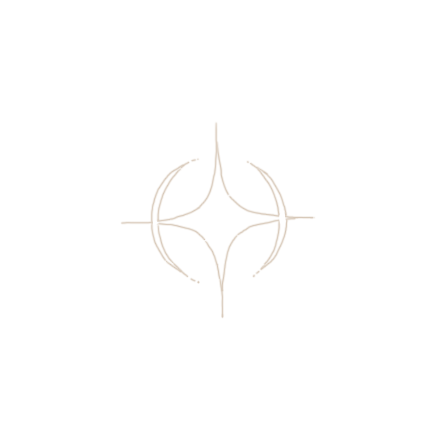
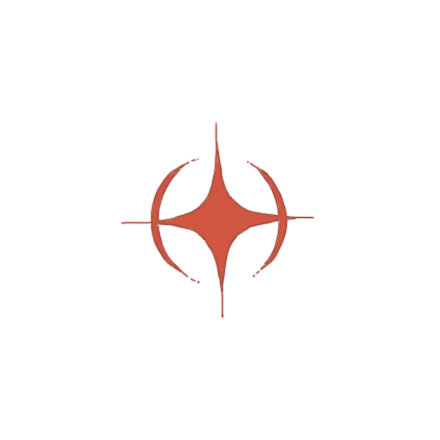
Изменен цвет взрыва

diff --git a/src/styles/style.css b/src/styles/style.css
@@ -317,20 +317,20 @@ body {
     top: -200px;
     left: -200px;
     z-index: -1000;
-    background-image: url("../images/interface/game/boom1/1.png"),
-        url("../images/interface/game/boom1/2.png"),
-        url("../images/interface/game/boom1/3.png"),
-        url("../images/interface/game/boom1/4.png"),
-        url("../images/interface/game/boom1/5.png"),
-        url("../images/interface/game/boom1/6.png"),
-        url("../images/interface/game/boom1/7.png"),
-        url("../images/interface/game/boom1/8.png"),
-        url("../images/interface/game/boom1/9.png"),
-        url("../images/interface/game/boom1/10.png"),
-        url("../images/interface/game/boom1/11.png"),
-        url("../images/interface/game/boom1/12.png"),
-        url("../images/interface/game/boom1/13.png"),
-        url("../images/interface/game/boom1/14.png"),
+    background-image: url("../images/interface/game/boom0/1.png"),
+        url("../images/interface/game/boom0/2.png"),
+        url("../images/interface/game/boom0/3.png"),
+        url("../images/interface/game/boom0/4.png"),
+        url("../images/interface/game/boom0/5.png"),
+        url("../images/interface/game/boom0/6.png"),
+        url("../images/interface/game/boom0/7.png"),
+        url("../images/interface/game/boom0/8.png"),
+        url("../images/interface/game/boom0/9.png"),
+        url("../images/interface/game/boom0/10.png"),
+        url("../images/interface/game/boom0/11.png"),
+        url("../images/interface/game/boom0/12.png"),
+        url("../images/interface/game/boom0/13.png"),
+        url("../images/interface/game/boom0/14.png"),
         url("../images/interface/days-screen/circle001.png"),
         url("../images/interface/days-screen/circle002.png"),
         url("../images/interface/days-screen/circle003.png");
